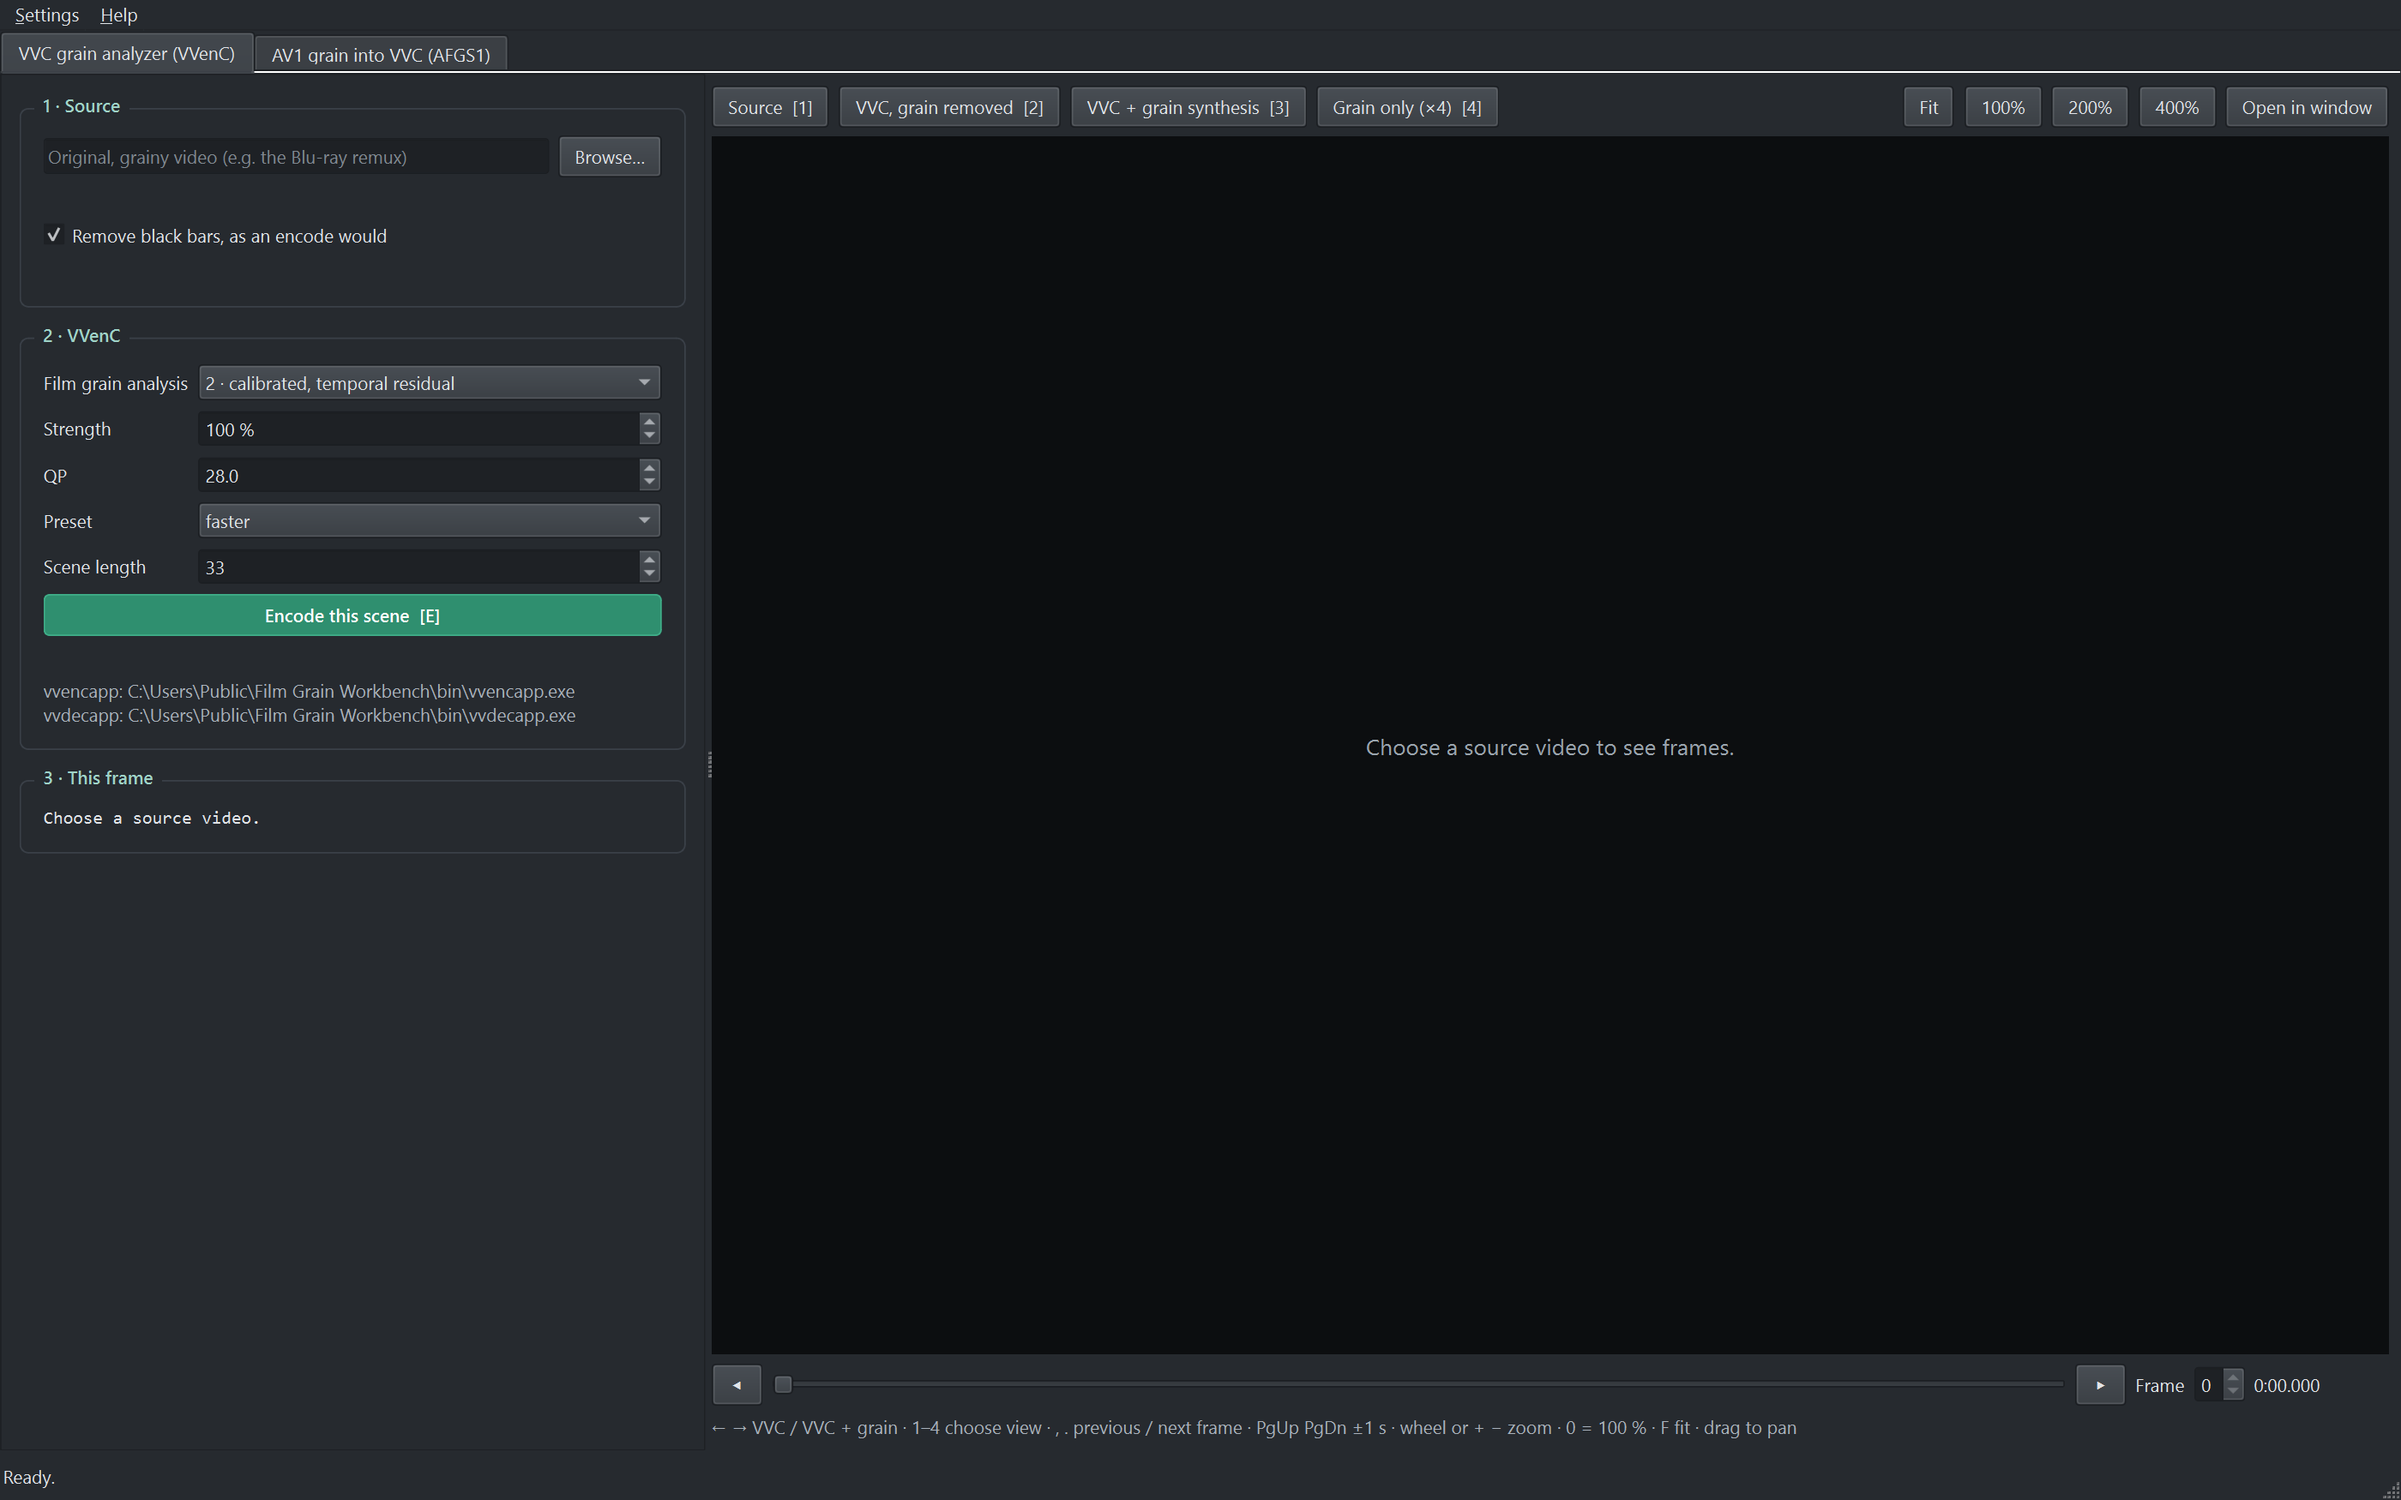
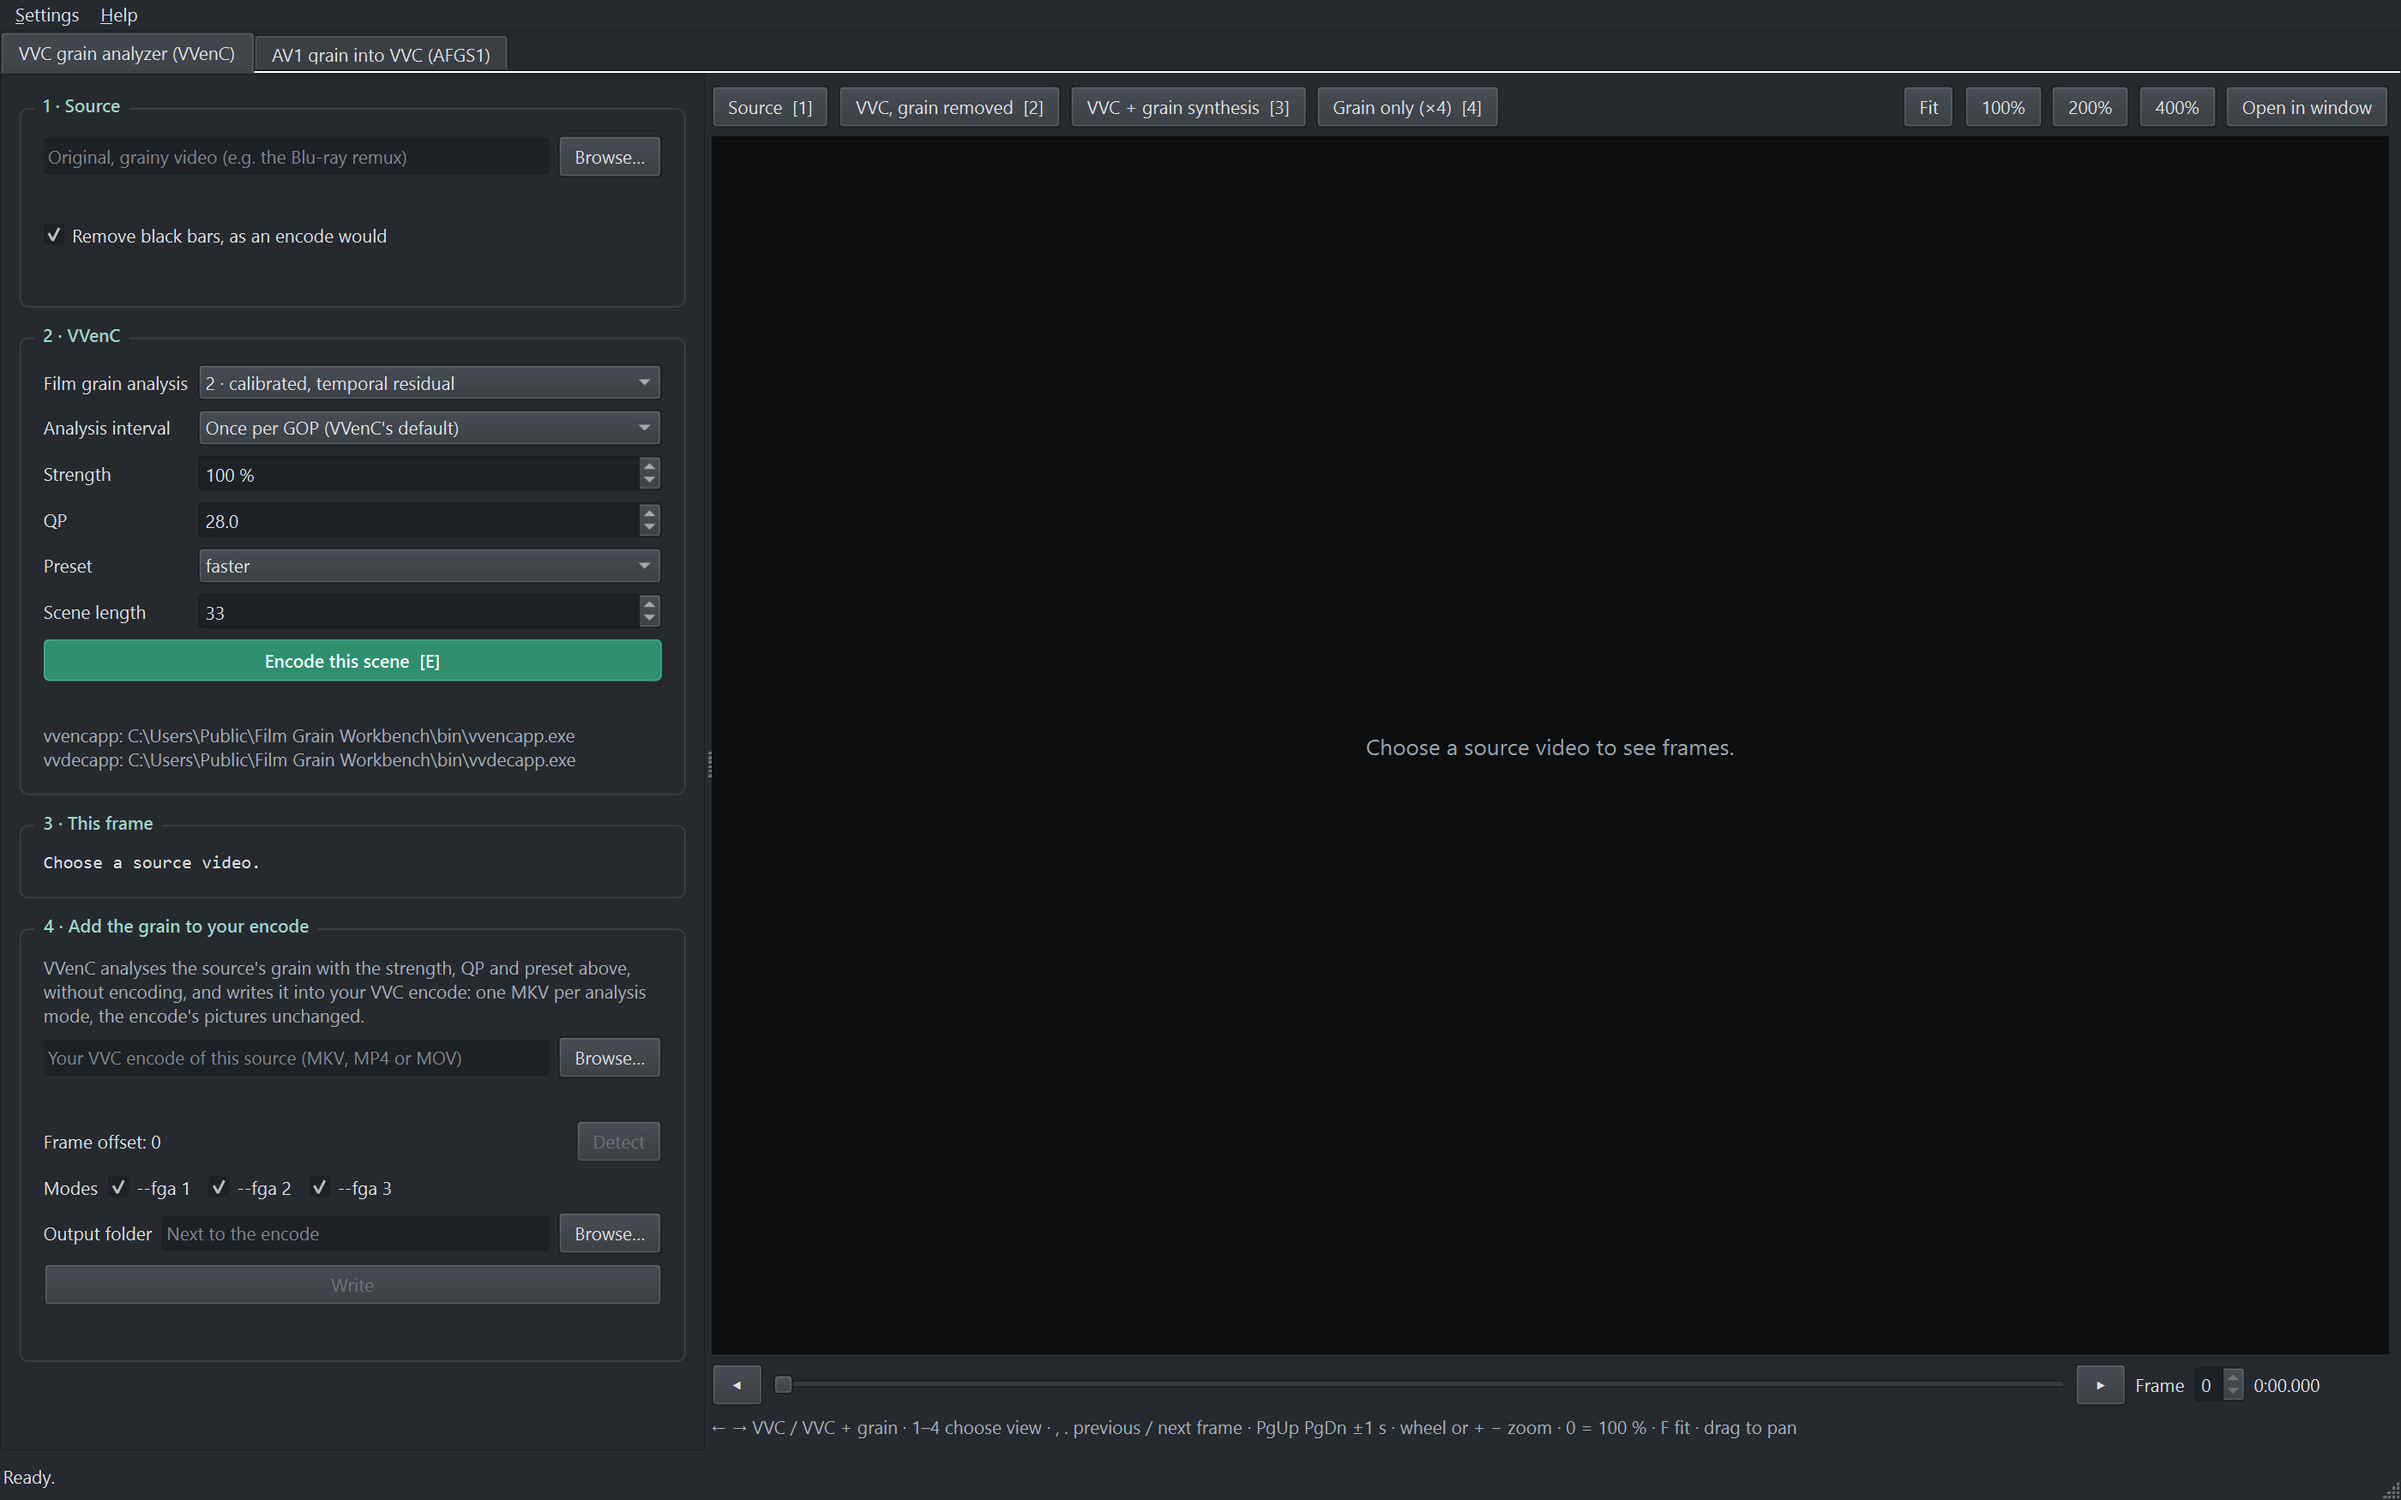
README and VVC tab screenshot for 1.1.0
README:
- Features: the grain put back as the eye sees it (at most 1.05x the lost
  grain, steady between pictures) and the analysis interval.
- Analysis modes: once per GOP by default; the fit of VVenC pull request
  1025 (Barten contrast sensitivity at grain periods up to 25 pixels, at
  most 1.05x the lost grain at every grain size, the 8 nearest pictures of
  the scene, repeated pictures get grain again), with two of its measured
  results (eye-weighted added / lost grain at preset fast, QP 31: hangar
  scene of a 4K HDR film 0.57 -> 0.81, ballet 0.49 -> 0.91, from VVenC
  commit 66956e16).
- VVC grain analyzer: the analysis interval, which also re-encodes the
  shown scene and goes into the add-the-grain analysis; a kept analysis is
  used again only with the same VVenC.
- Build from source: VVenC e7752df0 (fga-workbench), no patch file;
  src/cli and fga-inject.

docs/screenshots/vvc-tab.png: taken again with fgw_walkthrough screenshots
(window.grab, 1600x1000 window, saved 2800x1750) from a copy of the package
in a public folder, so no personal path shows; it shows the Analysis
interval row and the Add the grain to your encode group. av1-tab.png came
out byte-identical and is unchanged.

diff --git a/README.md b/README.md
@@ -18,6 +18,10 @@ AV1 film grain (AFGS1) metadata that players synthesise at playback.
 - Add VVenC's grain to your own VVC encode, without encoding: VVenC analyses
   the source and fits the grain to what your encode lost, and the app writes
   one MKV per analysis mode, the same pictures with each mode's grain metadata.
+- Grain fitted as the eye sees it: VVenC puts back the grain the encode lost,
+  never more than 1.05 times it, steady from picture to picture.
+- Choose how often VVenC analyses the grain: once per GOP (its default) or
+  every 16, 8, 4 or 2 frames or every frame, for grain that changes faster.
 
 ![The VVC grain analyzer tab: source, VVenC settings and the four views](docs/screenshots/vvc-tab.png)
 
@@ -47,8 +51,8 @@ AV1 film grain (AFGS1) metadata that players synthesise at playback.
 
 The encode loses most of the grain (VVenC's MCTF pre-filter and the
 quantisation remove it). All three modes measure the source's grain once per
-GOP and describe it in a film grain characteristics (FGC) SEI message, so the
-decoder can add similar grain back. They differ in how they measure the
+GOP (by default) and describe it in a film grain characteristics (FGC) SEI
+message, so the decoder can add similar grain back. They differ in how they measure the
 grain and which grain model describes it. Modes 1 to 3 as included here are
 VVenC master's (pull requests
 [764](https://github.com/fraunhoferhhi/vvenc/pull/764) and
@@ -63,10 +67,18 @@ fine), and `--fga 3` streams that FFmpeg decodes. In the scene encodes,
 `--fga 2` and `3` are also fitted, picture by picture, to the grain VVenC's
 coding lost (its amount, size and direction); the grain added to your own
 encode is fitted the same way to the grain your encode lost (VVenC reads its
-decoded pictures beside the source's). That fit pools pictures over VVenC's
-own GOP structure, exact for a VVenC encode made with it and close for others;
-for a picture height that is not a multiple of 8, it measures the picture
-without the rows VVenC would pad.
+decoded pictures beside the source's). The fit weighs the grain as the eye
+sees it (Barten's contrast sensitivity at the picture's brightness, at grain
+periods up to 25 pixels), puts back at most 1.05 times the grain lost at any
+grain size, and fits each picture to the 8 nearest pictures of its scene, so
+the grain stays steady from picture to picture. On the hangar scene of a 4K
+HDR film (preset fast, QP 31) the grain put back, as the eye sees it, went
+from 0.57 to 0.81 of the grain lost; on a ballet scene from 0.49 to 0.91. Film
+shown slowed
+down or frame-rate converted, whose pictures repeat, gets grain again. The fit
+follows VVenC's own GOP structure, exact for a VVenC encode made with it and
+close for others; for a picture height that is not a multiple of 8, it
+measures the picture without the rows VVenC would pad.
 
 **`--fga 1`: VTM's analysis, ported and fixed.** A port of the reference
 encoder's analysis (VTM, JVET-AN0237) with seven of its bugs fixed (among
@@ -153,8 +165,11 @@ all three film grain analysis modes (see
 Each mode writes an H.274 film grain characteristics SEI message; vvdec decodes
 every encode twice, without and with its grain synthesis. The selected mode is
 shown as soon as it is ready; the other two are encoded in the background, so
-switching modes is then instant. VVenC analyses the grain once per GOP (32
-frames) and at every scene cut, where the new parameters start, and writes the
+switching modes is then instant. By default VVenC analyses the grain once per
+GOP (32 frames) and at every scene cut, where the new parameters start;
+*Analysis interval* makes it analyse every 16, 8, 4 or 2 frames or every frame
+instead, which follows grain that changes within a GOP and costs an analysis
+per frame analysed. It writes the
 message only where the parameters change and at random access points; it
 persists, so the pictures in between keep the latest parameters. Inside the
 encoded scene the views are:
@@ -168,7 +183,8 @@ encoded scene the views are:
 The side panel shows the grain parameters the frame carries (read from the
 bitstream, both the frequency and the auto-regressive model), how much grain
 VVenC removed and vvdec adds, and the colour shift the grain causes. Inside an
-encoded scene, changing the strength, QP or preset encodes the scene again;
+encoded scene, changing the strength, analysis interval, QP or preset encodes
+the scene again;
 a new scene length applies when *Encode this scene* is pressed next. HDR
 sources (PQ, HLG) are encoded as HDR.
 
@@ -181,7 +197,8 @@ app next opens.
 
 *Add the grain to your encode* puts VVenC's grain into a VVC encode you made
 (any encoder; MKV, MP4 or MOV), without encoding anything. VVenC analyses the
-source frames the encode shows, with the strength, QP and preset set above
+source frames the encode shows, with the strength, analysis interval, QP and
+preset set above
 (the QP sets how much the analysis's filter smooths, as in an encode at that
 QP), in all three modes at once. The app then writes the encode once per
 chosen mode, as `<encode> - VVenC fga 1.mkv` and so on, in the output
@@ -197,8 +214,8 @@ VVenC analyses what it encodes (an 8-bit encode at 8 bits; the scenes above
 are encoded at 10). The frame offset is the source frame the encode's first
 frame shows; *Detect* finds it for an encode of the whole film. The last
 analysis is kept (in the app's data folder, also after it closes): a write
-of the same encode with the same settings uses it again, after a failed or
-cancelled write too.
+of the same encode with the same settings and the same VVenC uses it again,
+after a failed or cancelled write too.
 
 ## AV1 grain into VVC
 
@@ -267,12 +284,14 @@ first time.
   fetches libaom and builds it with gcc, like libaom's own Release build, so its
   floating-point results match libaom's.
 - vvencapp and vvdecapp (`vvc/build_vvc_tools.ps1`) need Visual Studio 2022,
-  CMake and git. VVenC is commit 1eb07fe0 (master of the 4KVCD fork:
-  fraunhoferhhi/vvenc master with the 4KVCD pull requests not merged yet,
-  among them the film grain analysis fixes), plus
-  `vvc/vvenc-fga-analysis-only.patch` (`--fga 4`: the three modes' analyses
-  without coding); vvdec is its master branch with pull
-  request 450 (film grain for 4:2:2, 4:4:4 and 4:0:0).
+  CMake and git. VVenC is commit e7752df0 of the 4KVCD fork (branch
+  fga-workbench): the fork's master, which is fraunhoferhhi/vvenc master with
+  the 4KVCD pull requests not merged yet (among them the film grain analysis
+  fixes, `--fgaintervallog2` and pull request
+  [1025](https://github.com/fraunhoferhhi/vvenc/pull/1025), the eye-weighted
+  fit), plus `--fga 4` (the three modes' analyses without coding); vvdec is
+  its master branch with pull request 450 (film grain for 4:2:2, 4:4:4 and
+  4:0:0).
 - The app (`packaging/package.py`) builds with CMake; Qt's DLLs come from
   windeployqt, FFmpeg's LGPL libraries from `native/ffmpeg`.
 
@@ -286,7 +305,9 @@ ctest --preset windows-release
 
 The app is then `build\cmake\src\app\Release\Film Grain Workbench.exe`.
 Sources: `src/core` (the engine, no Qt), `src/platform` (running programs),
-`src/app` (the window). `fgw_walkthrough` (`tests/tools`) drives the window on
+`src/app` (the window), `src/cli` (`fga-inject`: *Add the grain to your
+encode* from the command line, for tuning the analysis; `fga-inject --help`
+lists its options). `fgw_walkthrough` (`tests/tools`) drives the window on
 real files, offscreen, and reports how long each step took and the longest
 the window did not respond.
 
